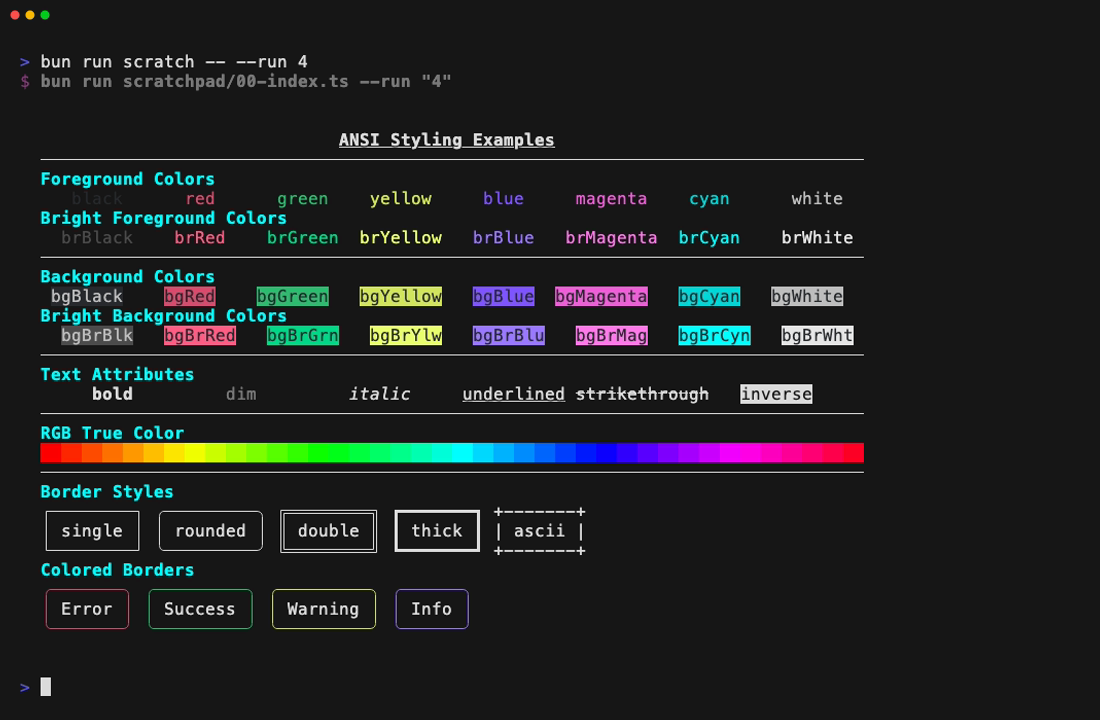
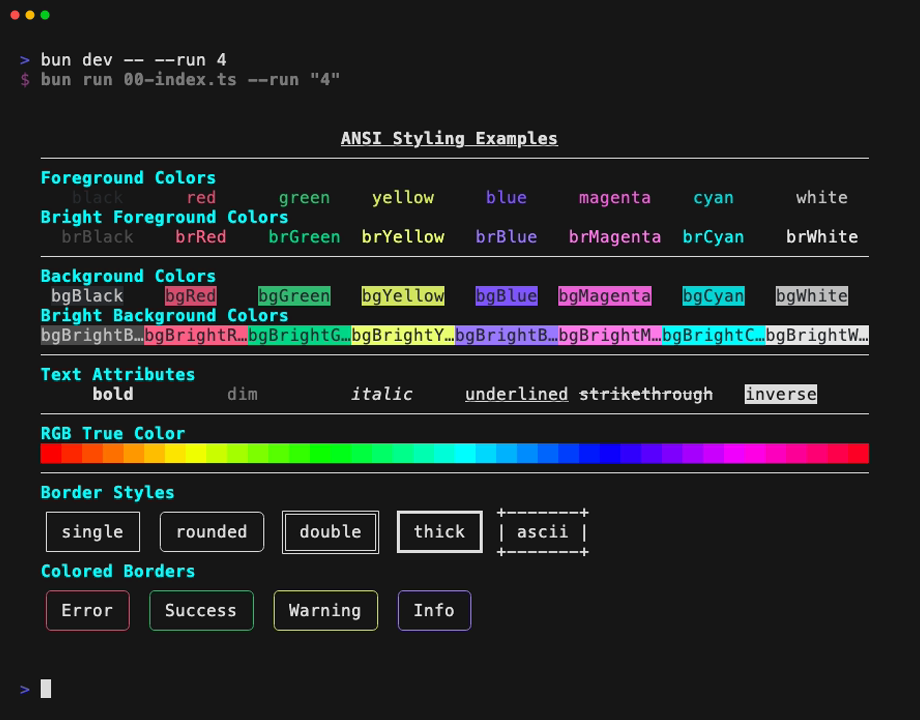
docs: update the media demos

diff --git a/apps/scratchpad/01-progress-bar.ts b/apps/scratchpad/01-progress-bar.ts
@@ -7,22 +7,26 @@ import {
   Ref,
   Schedule,
   Stream,
+  Terminal,
 } from "effect";
 import * as Ansi from "effect-boxes/Ansi";
 import * as Box from "effect-boxes/Box";
 import * as Cmd from "effect-boxes/Cmd";
+import { Container, Flex } from "effect-boxes/Layout";
 import * as Reactive from "effect-boxes/Reactive";
 
 const display = (msg: string) => Effect.sync(() => process.stdout.write(msg));
 
-const StatusBar = (status: string, counter: number, time: string) =>
-  pipe(
+const StatusBar = (status: string, counter: number, time: string, width: number) =>
+  Flex.row(
     [
-      Box.text(`Status: ${status}`),
-      Box.text(`Counter: ${counter}`),
-      Box.text(`⏰ ${time}`),
+      Flex.fixed(Box.text(`Status: ${status}`)),
+      Flex.fixed(Box.text("  |  ")),
+      Flex.fixed(Box.text(`Counter: ${counter}`)),
+      Flex.fixed(Box.text("  |  ")),
+      Flex.fixed(Box.text(`⏰ ${time}`)),
     ],
-    Box.punctuateH(Box.left, Box.text("  |  "))
+    width
   );
 
 const ProgressBar = (progress: number, total: number, width: number) => {
@@ -53,11 +57,16 @@ const formatTime = (timestamp: number): string => {
 
 export const main = Effect.gen(function* () {
   // Clear screen and hide cursor for cleaner output
-  yield* display(Box.renderPrettySync(Cmd.clearScreen));
-  yield* display(Box.renderPrettySync(Cmd.cursorHide));
+  yield* display(Box.renderPrettySync(Box.combine(Cmd.clearScreen,Cmd.cursorHide)));
+
+  const terminal = yield* Terminal.Terminal
 
   const Complete = 1000;
-  const ProgressBarWidth = 69;
+  const ContainerWidth = (yield* terminal.columns)-2
+  // For reactive updates, pre-compute the progress bar width matching Container's inner math
+  // Container padding [1,2] => innerWidth = 85 - 2(border) - 2*2(padding) = 79
+  // percentBox = 5 + 2(border) = 7, gap = 2
+  const ProgressBarInnerWidth = ContainerWidth - 2 - 4 - 7 - 2;
 
   const counterRef = yield* Ref.make(0);
 
@@ -68,40 +77,59 @@ export const main = Effect.gen(function* () {
     const timeStr = formatTime(timestamp);
     const status = counter >= Complete ? "completed" : "running";
 
-    const top = Box.hcat(
-      [
-        ProgressBar(counter, Complete, ProgressBarWidth).pipe(
-          Reactive.makeReactive("progress-bar"),
-          Box.border("single")
-        ),
-        Box.text(`${percentage.toString().padStart(3)}%`).pipe(
+    const top = Container.make(
+      { width: ContainerWidth, padding: [1, 2] },
+      (ctx) => {
+        const percentBox = Box.text(
+          `${percentage.toString().padStart(3)}%`
+        ).pipe(
           Box.alignHoriz(Box.right, 5),
           Box.annotate(percentage === 100 ? Ansi.green : Ansi.blue),
           Reactive.makeReactive("percentage"),
-          Box.border("single"),
-          Box.annotate(Ansi.green)
-        ),
-      ],
-      Box.center1
-    ).pipe(Box.pad(1), Box.border("single"));
+          Box.border("rounded", {
+            annotation: Ansi.green,
+            sides:{left:false}}),
+        );
+        // progress bar fills remaining space after percentage box
+        const barWidth = ctx.innerWidth - Box.cols(percentBox) - 2;
+        return Flex.row(
+          [
+            Flex.fixed(
+              ProgressBar(counter, Complete, barWidth).pipe(
+                Reactive.makeReactive("progress-bar"),
+                Box.border("single")
+              )
+            ),
+            Flex.fixed(percentBox),
+          ],
+          ctx.innerWidth,
+          { align: Box.center1 }
+        );
+      }
+    ).pipe(Box.border("rounded", { sides: { bottom: false } }));
 
-    const bottom = StatusBar(status, counter, timeStr).pipe(
-      Box.alignHoriz(Box.center1, 79),
-      Reactive.makeReactive("status-bar"),
-      Box.border("single")
-    );
+    const bottom = Container.make(
+      { width: ContainerWidth },
+      (ctx) =>
+        StatusBar(status, counter, timeStr, ctx.innerWidth).pipe(
+          Box.alignHoriz(Box.center1, ctx.innerWidth),
+          Reactive.makeReactive("status-bar")
+        )
+    ).pipe(Box.border("single"));
 
-    const footer = Box.punctuateH(
+    const footer = Flex.row(
       [
-        Box.text("Press"),
-        Box.text("Ctrl+C").pipe(Box.annotate(Ansi.blue)),
-        Box.text("to stop..."),
+        Flex.fixed(Box.text("Press")),
+        Flex.fixed(Box.text(" ")),
+        Flex.fixed(Box.text("Ctrl+C").pipe(Box.annotate(Ansi.blue))),
+        Flex.fixed(Box.text(" ")),
+        Flex.fixed(Box.text("to stop...")),
       ],
-      Box.left,
-      Box.text(" ")
+      ContainerWidth
     );
 
-    return Box.punctuateV([top, bottom, footer], Box.top, Box.char(" "));
+    const layout = Box.vcat([top, bottom], Box.left);
+    return Box.punctuateV([layout, footer], Box.top, Box.char(" "));
   };
 
   // Display the initial layout
@@ -137,7 +165,7 @@ export const main = Effect.gen(function* () {
             Reactive.cursorToReactive("progress-bar"),
             Option.map((cursorCmd) => [
               cursorCmd,
-              ProgressBar(counter, Complete, ProgressBarWidth),
+              ProgressBar(counter, Complete, ProgressBarInnerWidth),
             ])
           ),
           pipe(
@@ -157,9 +185,9 @@ export const main = Effect.gen(function* () {
             Reactive.cursorToReactive("status-bar"),
             Option.map((cursorCmd) => [
               cursorCmd,
-              StatusBar(status, counter, timeStr).pipe(
-                Box.truncate(79, Box.center1),
-                Box.alignHoriz(Box.center1, 79)
+              StatusBar(status, counter, timeStr, ContainerWidth - 2).pipe(
+                Box.truncate(ContainerWidth - 2, Box.center1),
+                Box.alignHoriz(Box.center1, ContainerWidth - 2)
               ),
             ])
           ),